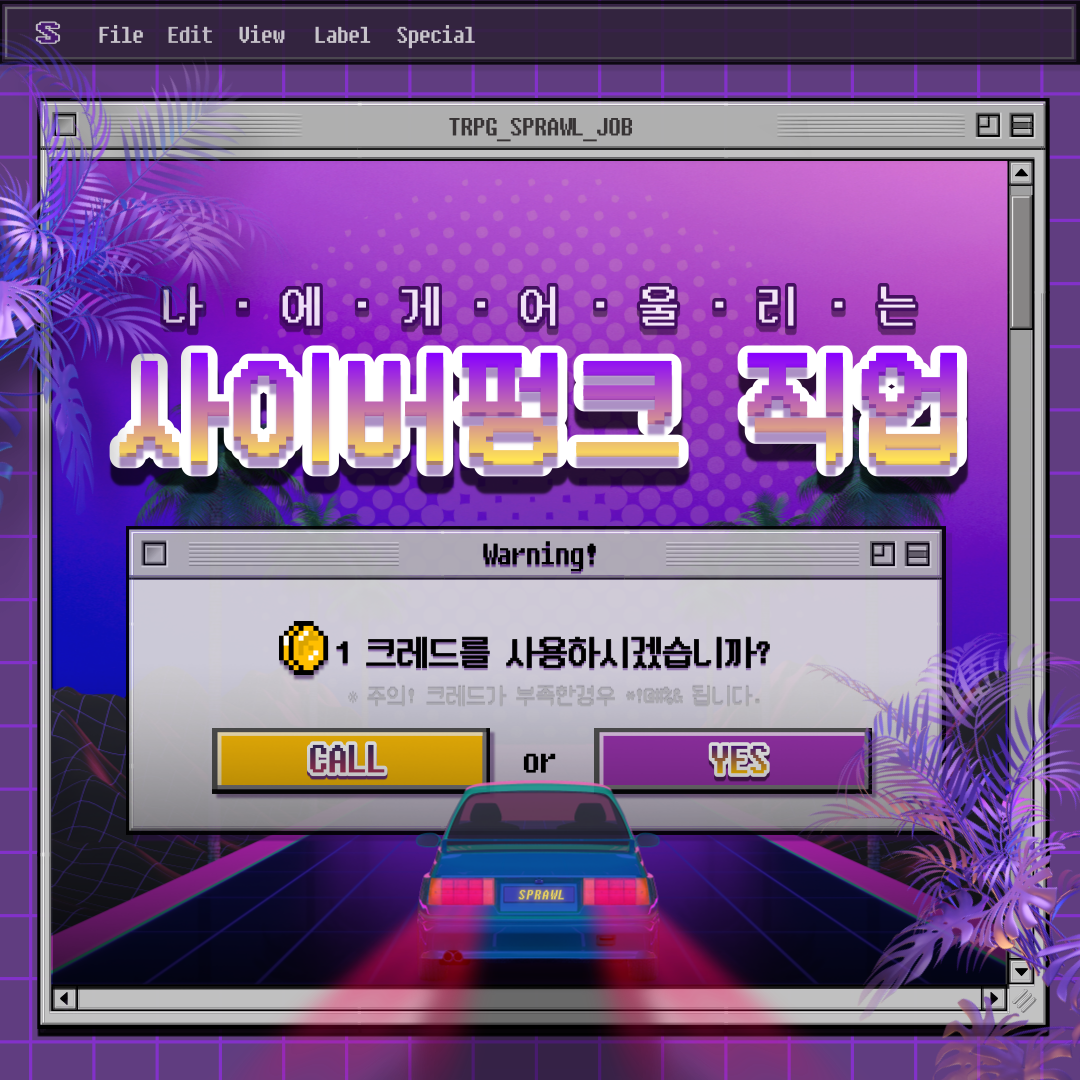
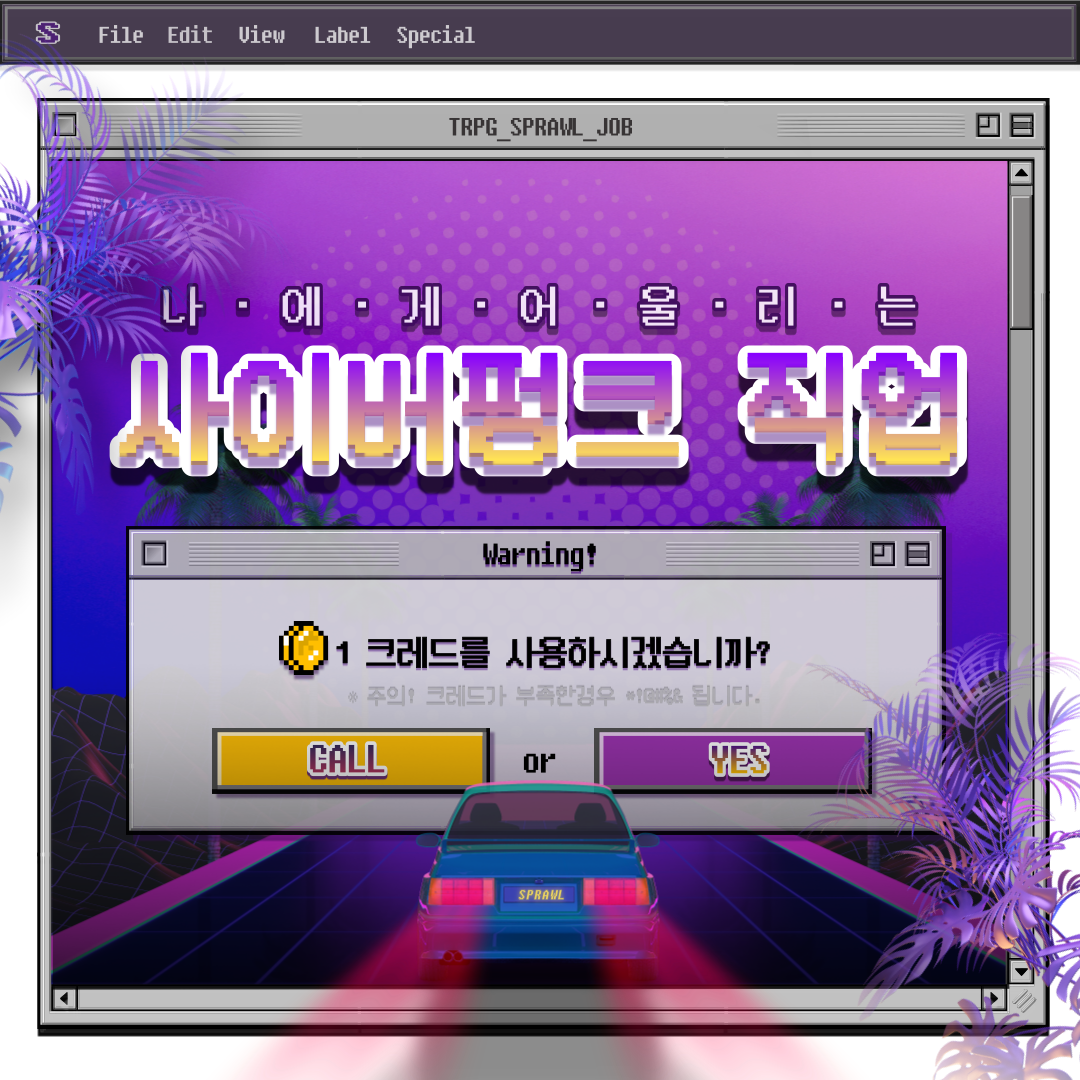
MOD: start 이미지 배경 투명화버전으로 변경

Changed region(s): [[0.0, 0.0, 1.0, 1.0]]

diff --git a/index.html b/index.html
@@ -37,7 +37,7 @@
             <h1>SPRAWL</h1>
         </div>
         <div class=imgbox>
-            <image class="center-fit" src="start_modify.png">
+            <image class="center-fit" src="start.png">
         </div>
     </body>
 </html>
